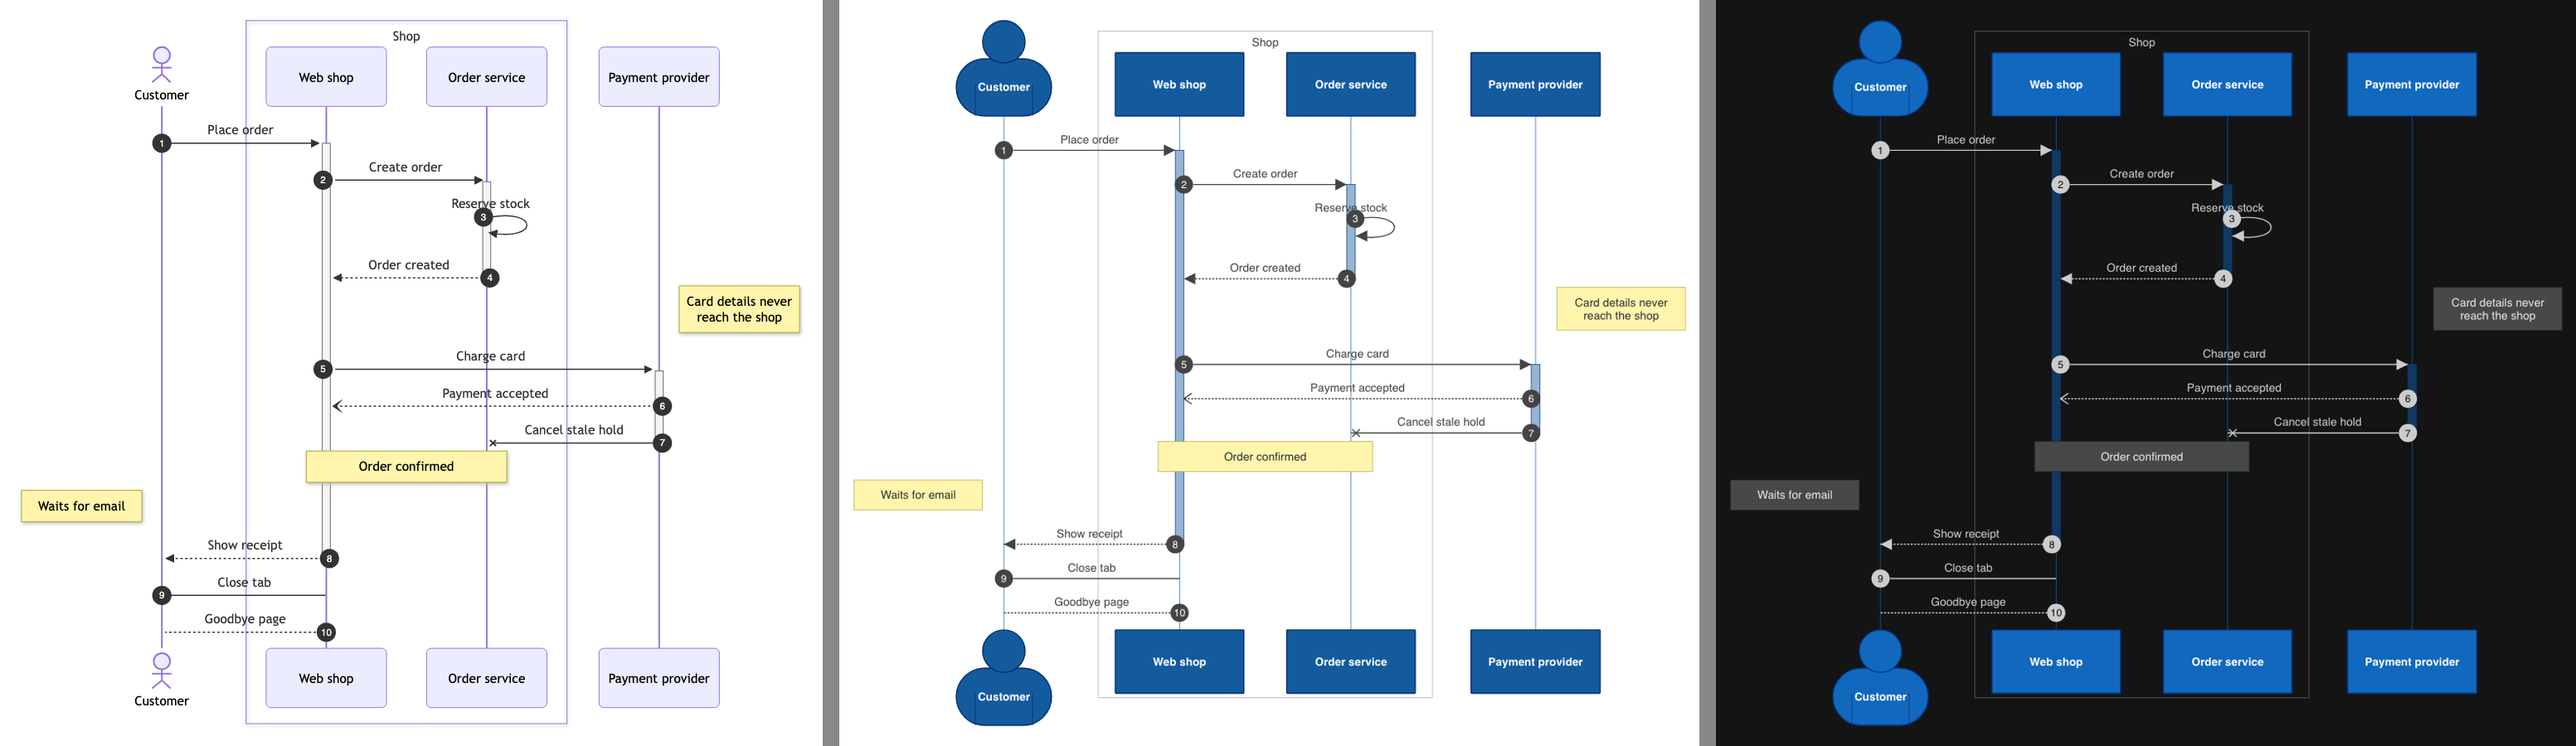
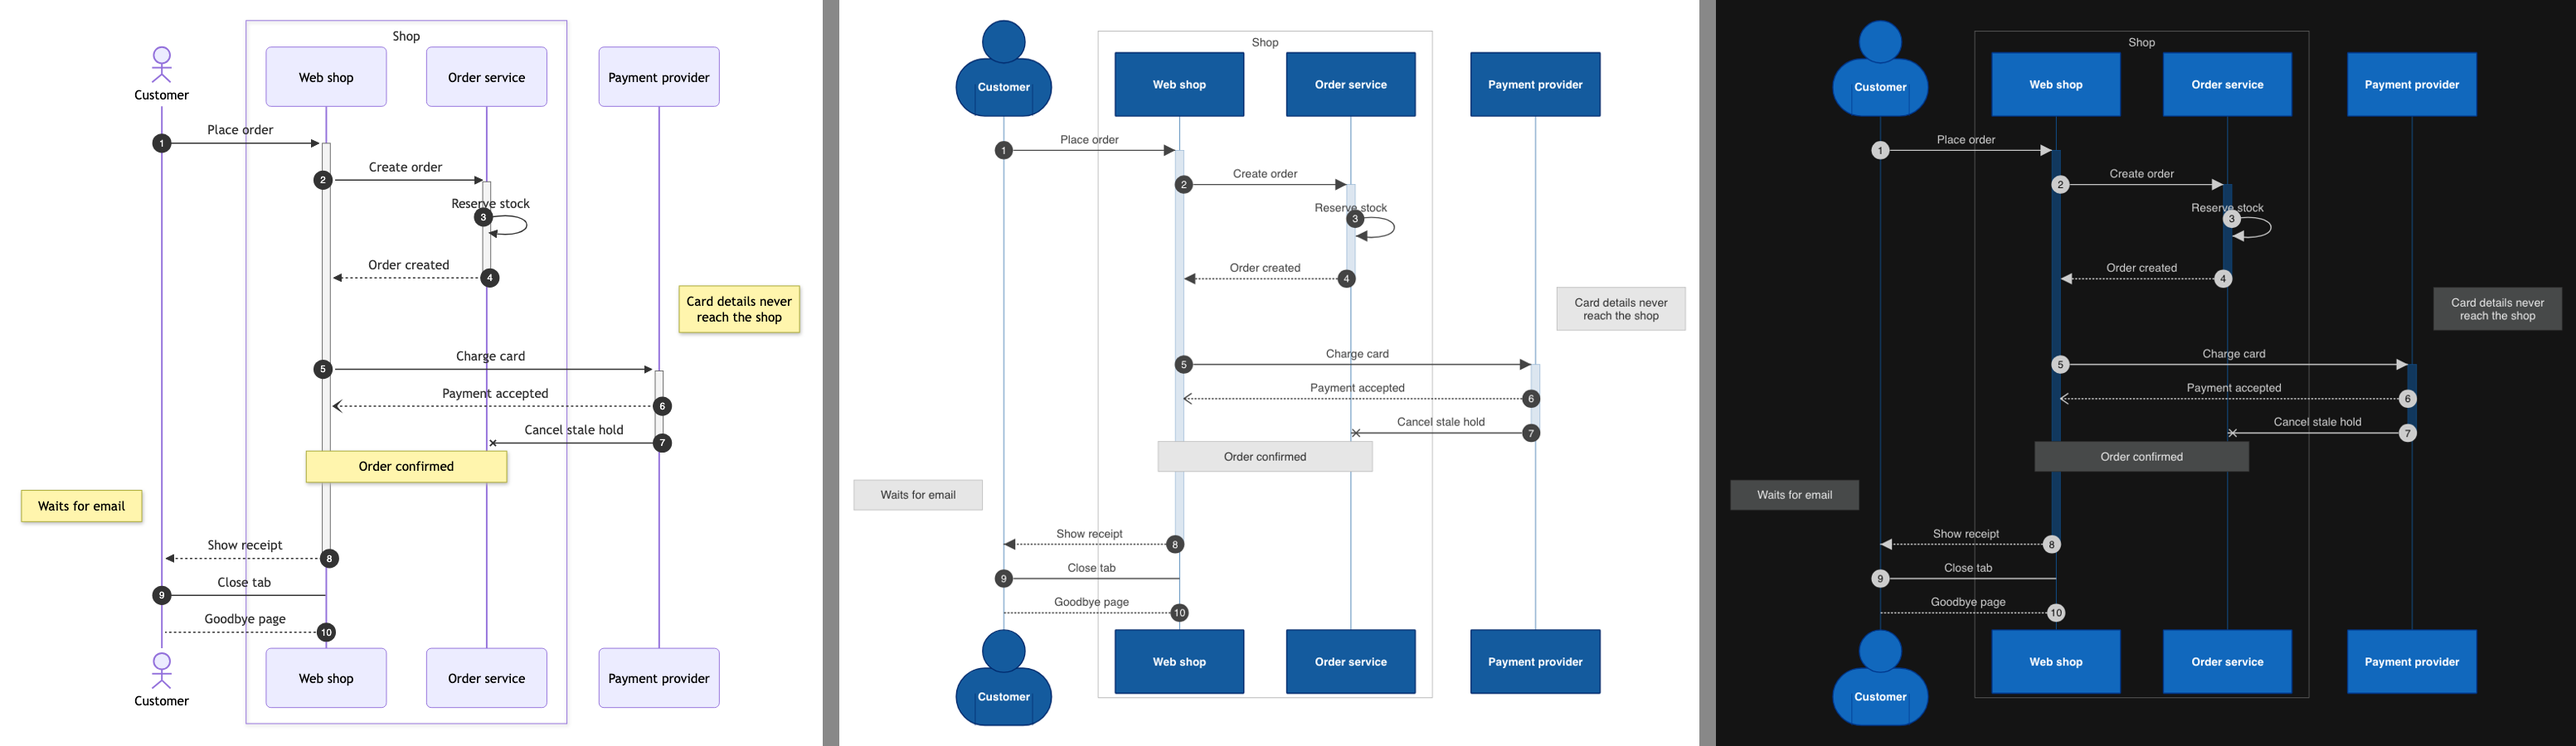
chore: tint activation bars per scheme and draw silent notes gray

diff --git a/src/engine/react-flow/sequence-graph.ts b/src/engine/react-flow/sequence-graph.ts
@@ -290,9 +290,10 @@ export function finishSequence(
                   stroke: palette.noteBorderColor,
                   color: palette.noteTextColor,
               }
-            : scheme === "dark"
+            : // Gray in both schemes, in place of Mermaid's yellow.
+              scheme === "dark"
               ? { fill: "#474949", stroke: "#2f2f2f", color: "#e6e6e6" }
-              : { fill: "#fff5ad", stroke: "#aaaa33", color: "#333333" };
+              : { fill: "#e6e6e6", stroke: "#b3b3b3", color: "#333333" };
     const firstFill = participantColors(script.participants[0]?.id ?? "").fill;
 
     const sequence: SequenceDrawing = {
@@ -359,12 +360,23 @@ export function finishSequence(
                 y: bar.y,
                 width: bar.width,
                 height: bar.height,
-                // A tint of the participant's fill toward the canvas, so
-                // the bar sits back in either scheme.
+                // A tint of the participant's fill toward the canvas, paler
+                // on the light canvas than on the dark one, so the bar sits
+                // back in either scheme.
                 fill:
                     palette?.activationBkgColor ??
-                    mix(own.fill, defaults.background, 0.55),
-                stroke: palette?.activationBorderColor ?? own.stroke,
+                    mix(
+                        own.fill,
+                        defaults.background,
+                        scheme === "dark" ? 0.55 : 0.85,
+                    ),
+                stroke:
+                    palette?.activationBorderColor ??
+                    mix(
+                        own.fill,
+                        defaults.background,
+                        scheme === "dark" ? 0.3 : 0.55,
+                    ),
             };
         }),
         notes: layout.notes.map((n) => ({ ...n, ...note })),

diff --git a/research/197-sequence-prototype.md b/research/197-sequence-prototype.md
@@ -50,7 +50,7 @@ Every fixture sits within the 1.25 the flowcharts reached. Text draws at 20 (Mer
 - **`mirrorActors: false`**: confirmed. Every lifeline ends 30 below the last item.
 - **Drawing order**: activation bars belong behind the messages and the fragment titles; drawn in front, they cover the titles. Message labels draw with no backing, as Mermaid's: a backing hid the bars and fragment lines under a label.
 - **Sequence numbers**: Mermaid 12's circle measures about 11 at 16 px, where its source reads 6, so the prototype scales 11.
-- **Silent lifelines and bars**: the participant's border color nearly disappears on the dark canvas, so a silent source's lifelines take the participant's fill. A silent source's activation bars take the participant's fill mixed toward the canvas, so they sit back in either scheme; mixed toward white they glared in dark mode.
+- **Silent lifelines and bars**: the participant's border color nearly disappears on the dark canvas, so a silent source's lifelines take the participant's fill. A silent source's activation bars take the participant's fill mixed toward the canvas, 85 percent on the light canvas and 55 percent on the dark one, with a border mixed less; one mix for both schemes left the bar too heavy in one of them. A silent source's notes draw gray in both schemes (`#e6e6e6` on light, `#474949` on dark) in place of Mermaid's yellow.
 - **A source palette in dark mode**: with the palette fixed in both schemes, Sign-in's `#333` messages and labels nearly vanished on the dark canvas. Fills keep the source's colors (participants, notes, activation bars, the fragment tab); in dark mode, what draws straight on the canvas follows the scheme (message lines and labels, sequence numbers, lifelines, fragment lines and titles). A `rect` with a source color fades to 20 percent in dark mode, so the scheme's text reads on it.
 - **Label toggles**: drawn as they are. Descriptions hide nothing, since participants carry no description and messages keep theirs; technologies hide nothing either.
 - **Export**: the PNG and SVG buttons export what the canvas draws, lifelines, bars, fragments, boxes, notes and numbers included.
